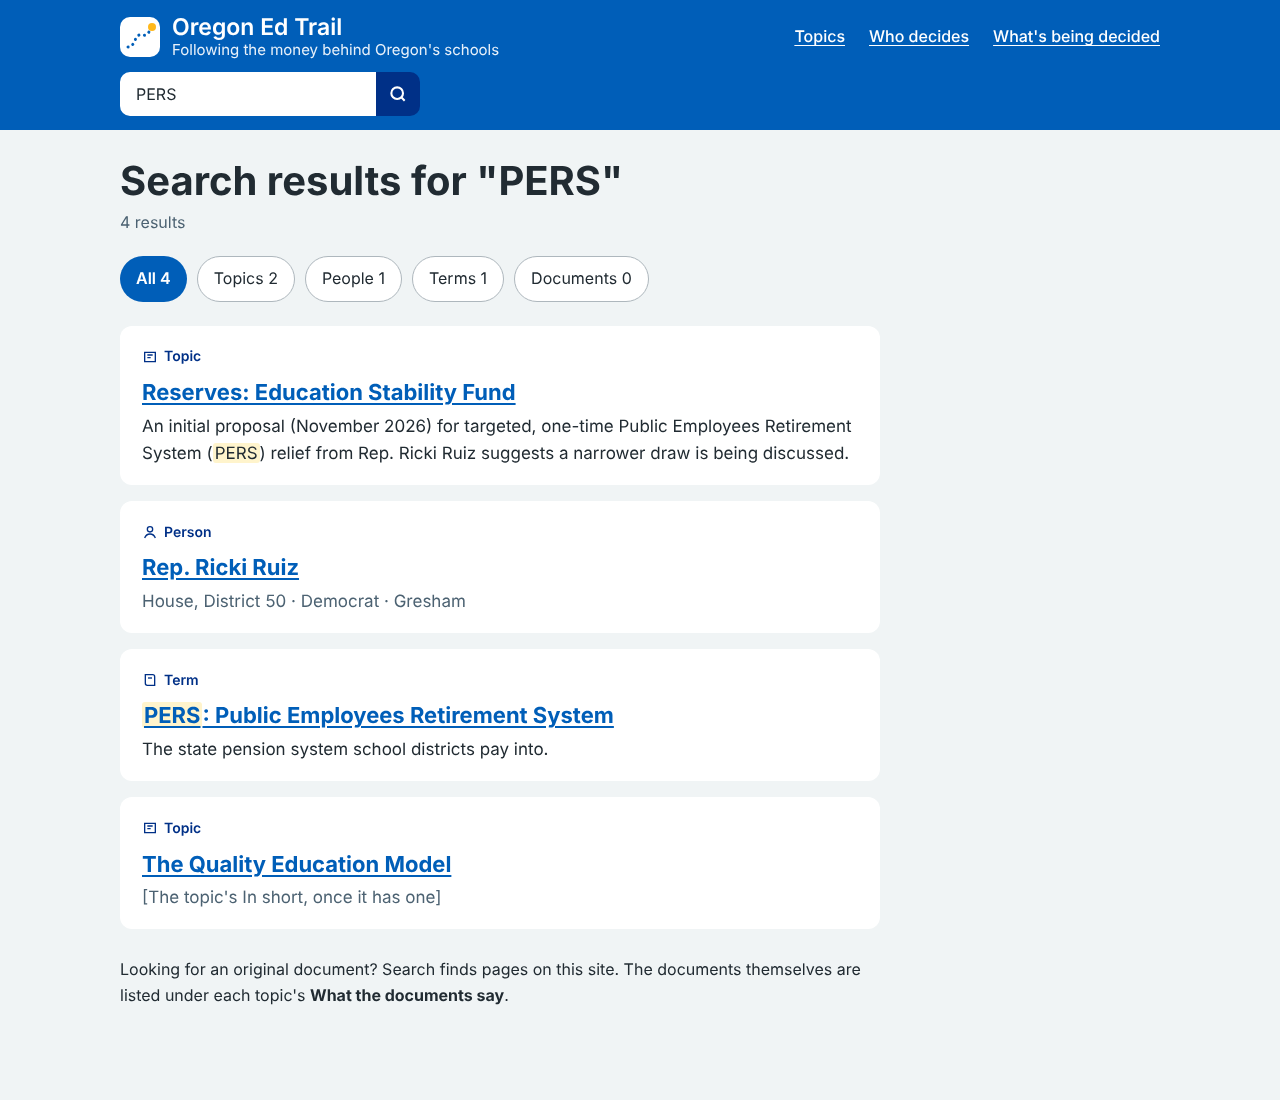
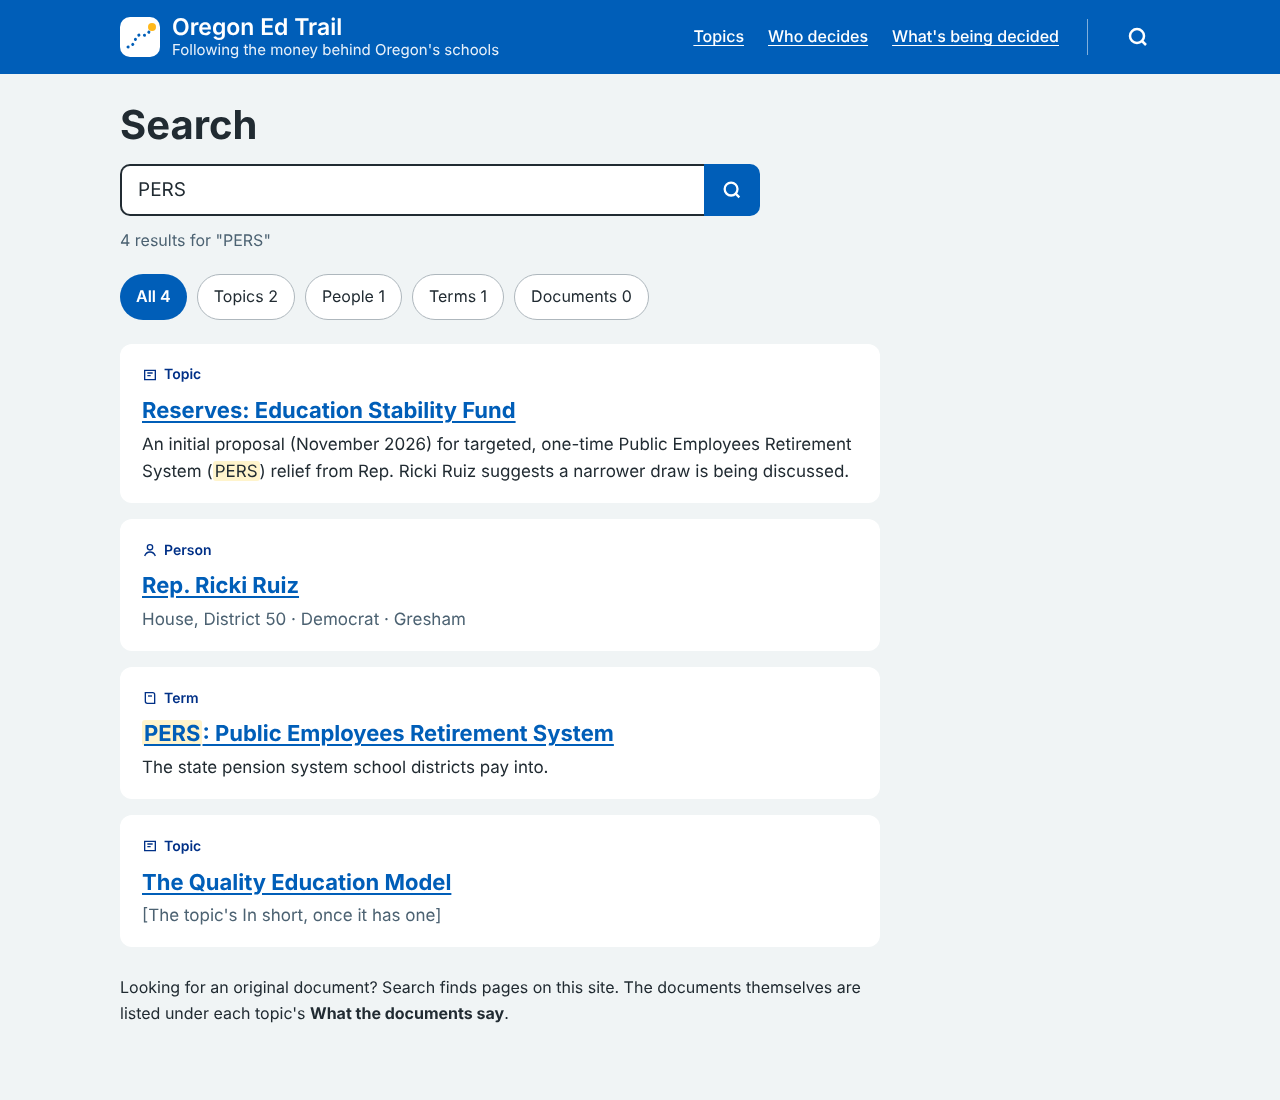
Design: search opens from a masthead button (GOV.UK pattern)
Claude-Session: https://claude.ai/code/session_01LgW53qZJVpj1BjXsxaq766

diff --git a/site-11ty/design/search/C-search-phone.dc.html b/site-11ty/design/search/C-search-phone.dc.html
@@ -12,49 +12,34 @@
 <style>
 body{margin:0;font-family:Lexend,system-ui,sans-serif}
 a{color:#005eb8;text-underline-offset:3px}a:hover{color:#003087}
-mark{background:#fff4cc;color:inherit;padding:0 2px;border-radius:3px}
 </style>
 </helmet>
 <div style="width:390px;height:844px;position:relative;overflow:hidden;background:#f0f4f5;color:#212b32;font-size:17px;line-height:1.55">
   <header style="background:#005eb8;color:#fff">
-    <div style="display:flex;align-items:center;gap:10px;padding:10px 8px 10px 16px">
+    <div style="display:flex;align-items:stretch;gap:4px;padding:0 0 0 16px;min-height:64px">
       <a href="#" style="display:flex;align-items:center;gap:10px;color:#fff;text-decoration:none;margin-right:auto">
         <svg width="32" height="32" viewBox="0 0 40 40" aria-hidden="true"><rect width="40" height="40" rx="10" fill="#fff"></rect><path d="M8 30 C 16 30, 14 16, 22 18 S 29 11, 32 10" fill="none" stroke="#005eb8" stroke-width="3" stroke-linecap="round" stroke-dasharray="0.1 5.5"></path><circle cx="32" cy="10" r="4" fill="#ffb81c"></circle></svg>
         <span><span style="display:block;font-weight:600;font-size:20px;line-height:1.15">Oregon Ed Trail</span><span style="display:block;font-size:13px;line-height:1.3;color:#e8f1fa">Following the money behind Oregon's schools</span></span>
       </a>
-      <button type="button" aria-label="Close search" aria-expanded="true" style="width:48px;height:48px;border:0;border-radius:10px;background:#003087;color:#fff;display:flex;align-items:center;justify-content:center"><svg width="22" height="22" viewBox="0 0 24 24" fill="none" stroke="currentColor" stroke-width="2.5" aria-hidden="true"><path d="M6 6l12 12M18 6L6 18"></path></svg></button>
+      <button type="button" aria-expanded="false" style="border:0;background:transparent;color:#fff;font:inherit;font-weight:600;font-size:15px;padding:0 10px;display:flex;align-items:center;gap:4px"><svg width="16" height="16" viewBox="0 0 24 24" fill="none" stroke="currentColor" stroke-width="2.5" aria-hidden="true"><path d="M6 9l6 6 6-6"></path></svg>Menu</button>
+      <button type="button" aria-label="Close search" aria-expanded="true" style="width:56px;border:0;background:#fff;color:#005eb8;display:flex;align-items:center;justify-content:center;box-shadow:inset 0 -4px 0 #005eb8"><svg width="22" height="22" viewBox="0 0 24 24" fill="none" stroke="currentColor" stroke-width="2.5" aria-hidden="true"><path d="M6 6l12 12M18 6L6 18"></path></svg></button>
     </div>
-    <form role="search" style="display:flex;padding:0 16px 14px">
-      <label for="q-phone" style="position:absolute;width:1px;height:1px;overflow:hidden;clip:rect(0 0 0 0)">Search the archive</label>
-      <input id="q-phone" type="search" value="PERS" style="flex:1 1 auto;min-width:0;font:inherit;font-size:17px;padding:0 14px;height:48px;border:2px solid #ffeb3b;border-radius:10px 0 0 10px;color:#212b32;background:#fff">
-      <button type="submit" aria-label="Search" style="width:52px;height:48px;border:0;border-radius:0 10px 10px 0;background:#003087;color:#fff;display:flex;align-items:center;justify-content:center"><svg width="20" height="20" viewBox="0 0 24 24" fill="none" stroke="currentColor" stroke-width="2.5" aria-hidden="true"><circle cx="11" cy="11" r="7"></circle><path d="M20 20l-4-4"></path></svg></button>
-    </form>
   </header>
-  <div style="padding:14px 16px">
-    <p style="margin:0 0 10px;font-size:15px;color:#4c6272">4 results for "PERS"</p>
-    <nav aria-label="Filter results" style="display:flex;gap:8px;overflow-x:auto;margin-bottom:14px">
-      <a href="#" aria-current="true" style="flex:none;min-height:44px;display:inline-flex;align-items:center;padding:0 14px;border-radius:999px;background:#005eb8;color:#fff;text-decoration:none;font-weight:600;font-size:15px">All 4</a>
-      <a href="#" style="flex:none;min-height:44px;display:inline-flex;align-items:center;padding:0 14px;border-radius:999px;background:#fff;color:#212b32;text-decoration:none;font-size:15px;border:1px solid #aeb7bd">Topics 2</a>
-      <a href="#" style="flex:none;min-height:44px;display:inline-flex;align-items:center;padding:0 14px;border-radius:999px;background:#fff;color:#212b32;text-decoration:none;font-size:15px;border:1px solid #aeb7bd">People 1</a>
-      <a href="#" style="flex:none;min-height:44px;display:inline-flex;align-items:center;padding:0 14px;border-radius:999px;background:#fff;color:#212b32;text-decoration:none;font-size:15px;border:1px solid #aeb7bd">Terms 1</a>
-    </nav>
-    <ol style="list-style:none;padding:0;margin:0;display:flex;flex-direction:column;gap:12px">
-      <li style="background:#fff;border-radius:12px;padding:14px 16px">
-        <p style="margin:0;font-size:13px;font-weight:600;color:#003087">Topic</p>
-        <h2 style="margin:2px 0 4px;font-size:19px;line-height:1.3"><a href="#">Reserves: Education Stability Fund</a></h2>
-        <p style="margin:0;font-size:15px;line-height:1.45">…one-time Public Employees Retirement System (<mark>PERS</mark>) relief from Rep. Ricki Ruiz suggests a narrower draw is being discussed.</p>
-      </li>
-      <li style="background:#fff;border-radius:12px;padding:14px 16px">
-        <p style="margin:0;font-size:13px;font-weight:600;color:#003087">Person</p>
-        <h2 style="margin:2px 0 4px;font-size:19px;line-height:1.3"><a href="#">Rep. Ricki Ruiz</a></h2>
-        <p style="margin:0;font-size:15px;color:#4c6272">House, District 50 · Democrat · Gresham</p>
-      </li>
-      <li style="background:#fff;border-radius:12px;padding:14px 16px">
-        <p style="margin:0;font-size:13px;font-weight:600;color:#003087">Term</p>
-        <h2 style="margin:2px 0 4px;font-size:19px;line-height:1.3"><a href="#"><mark>PERS</mark>: Public Employees Retirement System</a></h2>
-        <p style="margin:0;font-size:15px">The state pension system school districts pay into.</p>
-      </li>
-    </ol>
+  <form role="search" style="background:#fff;padding:20px 16px 24px;border-bottom:1px solid #aeb7bd">
+    <label for="q-phone" style="display:block;font-weight:700;font-size:19px;margin-bottom:10px">Search Oregon Ed Trail</label>
+    <div style="display:flex">
+      <input id="q-phone" type="search" style="flex:1 1 auto;min-width:0;font:inherit;font-size:17px;padding:0 14px;height:52px;border:2px solid #212b32;border-right:0;border-radius:10px 0 0 10px;color:#212b32;background:#fff;box-shadow:0 0 0 3px #ffeb3b">
+      <button type="submit" aria-label="Search" style="width:56px;height:52px;border:0;border-radius:0 10px 10px 0;background:#005eb8;color:#fff;display:flex;align-items:center;justify-content:center"><svg width="22" height="22" viewBox="0 0 24 24" fill="none" stroke="currentColor" stroke-width="2.5" aria-hidden="true"><circle cx="11" cy="11" r="7"></circle><path d="M20 20l-4-4"></path></svg></button>
+    </div>
+    <p style="margin:10px 0 0;font-size:14px;color:#4c6272">Topics, people and terms, for example "PERS" or "Lieber"</p>
+  </form>
+  <div style="padding:0 16px;opacity:.55" aria-hidden="true">
+    <p style="margin:16px 0 0;font-size:15px"><a href="#" tabindex="-1">Home</a> › <a href="#" tabindex="-1">Topics</a></p>
+    <h1 style="margin:8px 0 14px;font-size:28px;line-height:1.15;font-weight:700">Reserves: Education Stability Fund</h1>
+    <div style="background:#fff;border-radius:12px;overflow:hidden">
+      <p style="margin:0;background:#005eb8;color:#fff;font-size:16px;font-weight:600;padding:8px 16px">In short</p>
+      <p style="margin:0;padding:12px 16px;font-size:16px">[The topic's summary]</p>
+    </div>
   </div>
 </div>
 </x-dc>

diff --git a/site-11ty/design/search/C-search-desktop.dc.html b/site-11ty/design/search/C-search-desktop.dc.html
@@ -24,16 +24,18 @@ mark{background:#fff4cc;color:inherit;padding:0 2px;border-radius:3px}
         <span><span style="display:block;font-weight:600;font-size:23px;line-height:1.15">Oregon Ed Trail</span><span style="display:block;font-size:15px;line-height:1.3;color:#e8f1fa">Following the money behind Oregon's schools</span></span>
       </a>
       <nav aria-label="Main" style="display:flex;flex-wrap:wrap;gap:4px 24px;font-weight:500;font-size:16px"><a href="#" style="color:#fff">Topics</a><a href="#" style="color:#fff">Who decides</a><a href="#" style="color:#fff">What's being decided</a></nav>
-      <form role="search" style="display:flex;align-items:stretch;flex:0 1 300px;min-width:220px">
-        <label for="q-desk" style="position:absolute;width:1px;height:1px;overflow:hidden;clip:rect(0 0 0 0)">Search the archive</label>
-        <input id="q-desk" type="search" value="PERS" style="flex:1 1 auto;min-width:0;font:inherit;font-size:16px;padding:0 14px;height:44px;border:2px solid #fff;border-radius:10px 0 0 10px;color:#212b32;background:#fff">
-        <button type="submit" aria-label="Search" style="width:48px;height:44px;border:0;border-radius:0 10px 10px 0;background:#003087;color:#fff;display:flex;align-items:center;justify-content:center"><svg width="20" height="20" viewBox="0 0 24 24" fill="none" stroke="currentColor" stroke-width="2.5" aria-hidden="true"><circle cx="11" cy="11" r="7"></circle><path d="M20 20l-4-4"></path></svg></button>
-      </form>
+      <span aria-hidden="true" style="width:1px;height:36px;background:rgba(255,255,255,.5)"></span>
+      <button type="button" aria-label="Search" aria-expanded="false" style="width:44px;height:44px;border:0;border-radius:10px;background:transparent;color:#fff;display:flex;align-items:center;justify-content:center"><svg width="24" height="24" viewBox="0 0 24 24" fill="none" stroke="currentColor" stroke-width="2.5" aria-hidden="true"><circle cx="11" cy="11" r="7"></circle><path d="M20 20l-4-4"></path></svg></button>
     </div>
   </header>
   <div style="max-width:1040px;margin:0 auto;padding:0 24px 64px">
-    <h1 style="margin:28px 0 6px;font-size:40px;line-height:1.15;font-weight:700">Search results for "PERS"</h1>
-    <p style="margin:0 0 20px;color:#4c6272;font-size:16px">4 results</p>
+    <h1 style="margin:28px 0 16px;font-size:40px;line-height:1.15;font-weight:700">Search</h1>
+    <form role="search" style="display:flex;max-width:640px;margin-bottom:12px">
+      <label for="q-page" style="position:absolute;width:1px;height:1px;overflow:hidden;clip:rect(0 0 0 0)">Search topics, people and terms</label>
+      <input id="q-page" type="search" value="PERS" style="flex:1 1 auto;min-width:0;font:inherit;font-size:19px;padding:0 16px;height:52px;border:2px solid #212b32;border-right:0;border-radius:10px 0 0 10px;color:#212b32;background:#fff">
+      <button type="submit" aria-label="Search" style="width:56px;height:52px;border:0;border-radius:0 10px 10px 0;background:#005eb8;color:#fff;display:flex;align-items:center;justify-content:center"><svg width="22" height="22" viewBox="0 0 24 24" fill="none" stroke="currentColor" stroke-width="2.5" aria-hidden="true"><circle cx="11" cy="11" r="7"></circle><path d="M20 20l-4-4"></path></svg></button>
+    </form>
+    <p role="status" style="margin:0 0 20px;color:#4c6272;font-size:16px">4 results for "PERS"</p>
     <nav aria-label="Filter results" style="display:flex;flex-wrap:wrap;gap:10px;margin-bottom:24px">
       <a href="#" aria-current="true" style="min-height:44px;display:inline-flex;align-items:center;padding:0 16px;border-radius:999px;background:#005eb8;color:#fff;text-decoration:none;font-weight:600;font-size:16px">All 4</a>
       <a href="#" style="min-height:44px;display:inline-flex;align-items:center;padding:0 16px;border-radius:999px;background:#fff;color:#212b32;text-decoration:none;font-size:16px;border:1px solid #aeb7bd">Topics 2</a>
